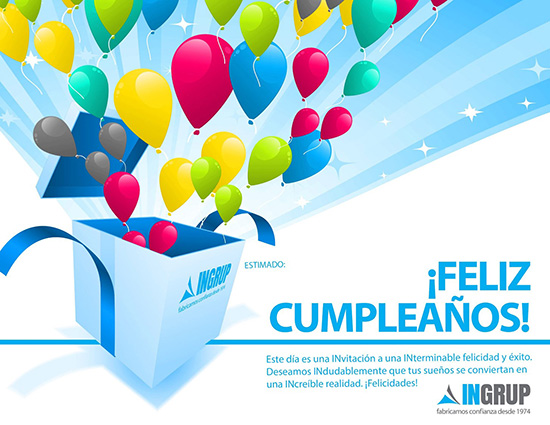
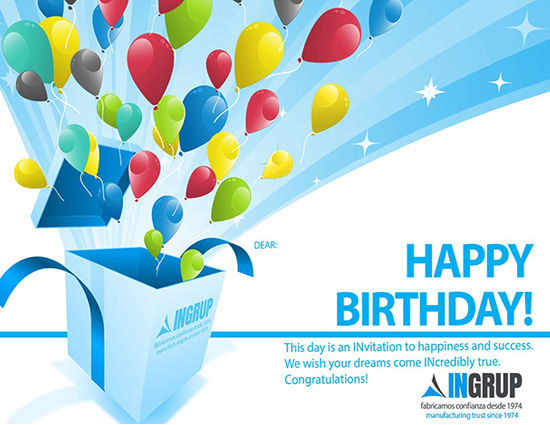
Version Ingles
Se le agrego un nuevo campo para que pueda enviar tarjetas en versión
ingles

diff --git a/index.html b/index.html
@@ -43,8 +43,15 @@
                         <div class="form-group">
                             <label>Genero:</label>
                             <select id="gender">
-                                <option name="man">Masculino</option>
-                                <option name="woman">Femenino</option>                    
+                                <option>Masculino</option>
+                                <option>Femenino</option>                    
+                            </select>
+                        </div>
+                        <div class="form-group">
+                            <label>Idioma:</label>
+                            <select id="language">
+                                <option>Español</option>     
+                                <option>Ingles</option>               
                             </select>
                         </div>
                         <div class="form-group">
@@ -73,7 +80,7 @@
                 <div class="col-md-3"></div>
                 <div class="col-md-6">
                     <p style="text-align:center;">PREVIEW</p>
-                    <div style="background-image:url('images/man.jpg');background-repeat: no-repeat; background-size:cover; height:202px;">
+                    <div style="background-image:url('images/hombre.jpg');background-repeat: no-repeat; background-size:cover; height:202px;">
                         <p style="font-size: 9px;color: rgb(31,78,121);font-weight: bold;margin: 130px 0 0 115px;float: left;">{{name}}</p>
                     </div>
                 </div>

diff --git a/js/compiled.js b/js/compiled.js
@@ -84,6 +84,7 @@ function sendInvitation(){
 		var name = $('#name').val();
 		var gender = $('#gender').val();
 		var email = $('#email').val();
+		var language = $('#language').val();
 		var cc = $('#cc').val();
 		$('#currentForm').html('<div id="response_div"><img src="images/ajax-loader.gif" /></div>');
 
@@ -91,7 +92,7 @@ function sendInvitation(){
 		$.ajax({
 			type: "GET", 
 			url: "generateImage.php",
-			data: 'pname='+name+'&pgender='+gender,
+			data: 'pname='+name+'&pgender='+gender+'&planguage='+language,
 			success: function(file){
 			if(file){
 

diff --git a/generateImage.php b/generateImage.php
@@ -1,14 +1,30 @@
 <?php
-if(isset($_GET["pname"]) && isset($_GET["pgender"])){
+if( isset($_GET["pname"]) && isset($_GET["pgender"]) ){
 
 	//Set the Content Type
 	header('Content-type: image/jpeg');
 
+	$x=0;
+	$y=0;
+	$size=0;
 	// Create Image From Existing File
-	if($_GET["pgender"]=="Masculino"){
-		$jpg_image = imagecreatefromjpeg('images/man.jpg');	
-	}else{
-		$jpg_image = imagecreatefromjpeg('images/woman.jpg');
+	if(($_GET["pgender"]=="Masculino") && ($_GET["planguage"]=="Español")){
+		$jpg_image = imagecreatefromjpeg('images/hombre.jpg');
+		$x=255;
+		$y=290;
+		$size=12;	
+	}else
+	if(($_GET["pgender"]=="Femenino") && ($_GET["planguage"]=="Español")){
+		$jpg_image = imagecreatefromjpeg('images/mujer.jpg');
+		$x=255;
+		$y=290;
+		$size=12;
+	}else
+	if($_GET["planguage"]=="Ingles"){
+		$jpg_image = imagecreatefromjpeg('images/man.jpg');
+		$x=255;
+		$y=270;
+		$size=10;
 	}
 
 
@@ -22,7 +38,7 @@ if(isset($_GET["pname"]) && isset($_GET["pgender"])){
 	$text = $_GET["pname"];
 
 	// Print Text On Image
-	imagettftext($jpg_image, 12, 0, 255, 290, $blue, $font_path, $text);
+	imagettftext($jpg_image, $size, 0, $x, $y, $blue, $font_path, $text);
 
 	$hoy = date("YmdHis"); 
 	$name="image".$hoy;
